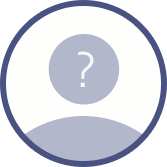
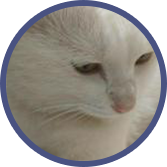
Fix

diff --git a/index.html b/index.html
@@ -32,9 +32,9 @@
 					<div class="section_title member_title"></div>
 					<div class="section_content">
 						<div class="member_tile">
-							<img class="member_avatar" src="https://avatars1.githubusercontent.com/u/5838104?v=3&u=8e378dd086f0756d14427fdc4afba8118b34881c&s=140"/>
+							<img class="member_avatar" src="images/avatar_0.png"/>
 							<p class="member_name">Meta_小皓</p>
-							<p class="member_intro">&nbsp;&nbsp;&nbsp;&nbsp;&nbsp;&nbsp;just click it →<a href="http://www.haosblog.com">http://www.haosblog.com</a>。</p>
+							<p class="member_intro">&nbsp;&nbsp;&nbsp;&nbsp;&nbsp;&nbsp;Just click it →<a href="http://www.haosblog.com">http://www.haosblog.com</a>。</p>
 							<div class="member_contact">
 								<div class="member_line"></div>
 								<a class="member_contact_email" href="mailto:xiaohao@haosblog.com" alt="xiaohao@haosblog.com"></a>

diff --git a/css/style.css b/css/style.css
@@ -23,6 +23,8 @@
 .member_tile:hover{background:#242c56;}
 .member_name{margin-top:37px;font-size:22px;}
 .member_intro{text-align:left;margin-top:22px;line-height:24px;font-size:14px;min-height:96px;}
+.member_intro a{color:#fff;}
+.member_intro a:visited{color:#fff;}
 .member_line{float:left;height:1px;width:60px;background:#565c76;margin-top:19.5px;}
 .member_contact{margin:10px auto 0 auto;width:244px;}
 .member_contact_email{transition:opacity 0.2s;-moz-transition:opacity 0.2s;-webkit-transition:opacity 0.2s;-o-transition:opacity 0.2s;margin:0 13px 0 10px;float:left;display:block;background:url('../images/contact_email.png') no-repeat;height:39px;width:39px;}
